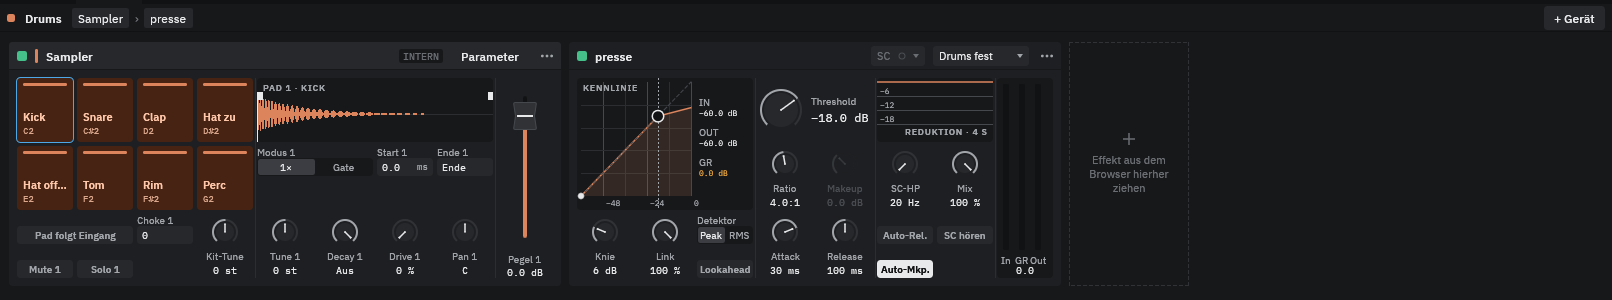
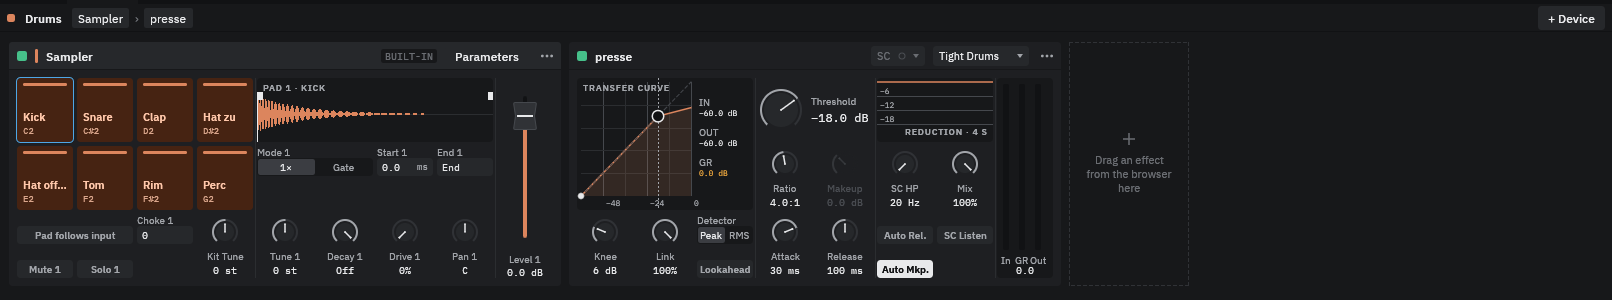
Regenerate the README media in English and update the README texts (#5)
Reverb and Scale instead of Hall and Tonleiter; the hexa caption names the
devices the picture shows (EQ and Delay); Env Amt. fits volt's knob label.

diff --git a/README.md b/README.md
@@ -20,7 +20,8 @@
 
 komponist is a MIDI DAW written in Rust with [egui](https://github.com/emilk/egui). You arrange clips, edit notes and
 steps, shape sounds with built-in instruments and effects, host CLAP and VST3 plugins, and mix it all on the same
-screen. Everything above is the demo project that ships with the app (`komponist --demo`).
+screen. Everything above is the demo project that ships with the app (`komponist --demo`). The interface is available in
+English and German; it follows your desktop language, and Settings › Appearance (or `--lang de|en`) switches it.
 
 ## Features
 
@@ -43,10 +44,10 @@ The step sequencer is made for drums and Sampler kits. Toggle steps while the pa
 
 No plugins needed to make a sound.
 
-**hexa** is a six-operator FM synth with envelopes, LFOs and a large preset library. Here with the EQ, Delay and Hall
-devices behind it:
+**hexa** is a six-operator FM synth with envelopes, LFOs and a large preset library. Here with an EQ and a Delay behind
+it:
 
-![hexa (FM synth) with the EQ, Delay and Hall devices behind it](docs/media/device-hexa.png)
+![hexa (FM synth) with an EQ and a Delay behind it](docs/media/device-hexa.png)
 
 **volt** is a subtractive synth with two oscillators, a filter and a sub oscillator. Here on the bass, with an EQ and a presse keyed by the drums:
 
@@ -59,8 +60,8 @@ no sample files. Next to it, the presse compressor:
 
 ### Built-in effects
 
-**EQ**, **Delay**, **Hall** (reverb), **presse** (compressor with sidechain) and **Limiter**, plus the MIDI effects
-**Arpeggiator** and **Tonleiter** (scale). The EQ shows the live spectrum of the signal it processes:
+**EQ**, **Delay**, **Reverb**, **presse** (compressor with sidechain) and **Limiter**, plus the MIDI effects
+**Arpeggiator** and **Scale**. The EQ shows the live spectrum of the signal it processes:
 
 ![The EQ's spectrum moving while the lead plays](docs/media/eq-spectrum.gif)
 
@@ -87,7 +88,7 @@ does not take your project down with it. Plugin windows open as native X11 windo
   track or bus.
 - Every edit is undoable, including parameter changes.
 
-The mixer shows every track with its inserts, sends, pan, mute/solo, faders and level meters. The group (Rhythmus) and the effect bus (Hall) have strips of their own on the right, next to the master channel:
+The mixer shows every track with its inserts, sends, pan, mute/solo, faders and level meters. The group (named Rhythmus in the demo) and the effect bus (named Hall) have strips of their own on the right, next to the master channel:
 
 ![The mixer with the arrangement above it, playing](docs/media/mixer.png)
 
@@ -139,8 +140,8 @@ scripts/readme-media.sh            # everything into docs/media/
 scripts/readme-media.sh hero mixer # only these scenarios
 ```
 
-It runs komponist under a private Xvfb with `--null-audio` (no audio or MIDI hardware, no sound) and drives the UI
-through its accessibility tree. It needs `xvfb-run`, `ffmpeg`, ImageMagick, Python 3 and `egui-mcp`.
+It runs komponist in English (`--lang en`) under a private Xvfb with `--null-audio` (no audio or MIDI hardware, no
+sound) and drives the UI through its accessibility tree. It needs `xvfb-run`, `ffmpeg`, ImageMagick, Python 3 and `egui-mcp`.
 
 ## Architecture
 
